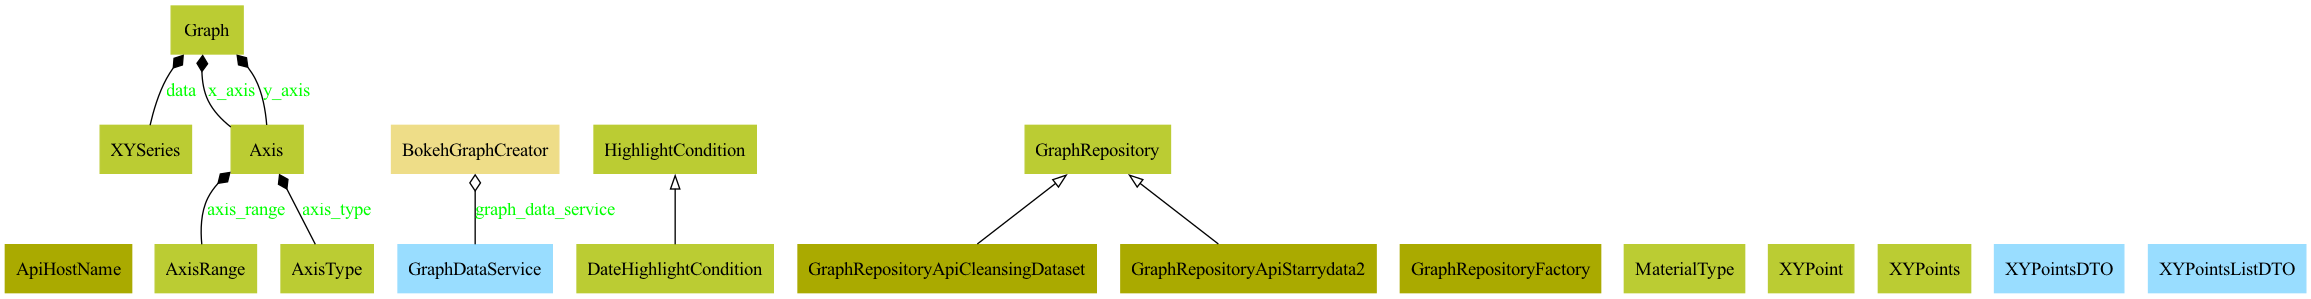
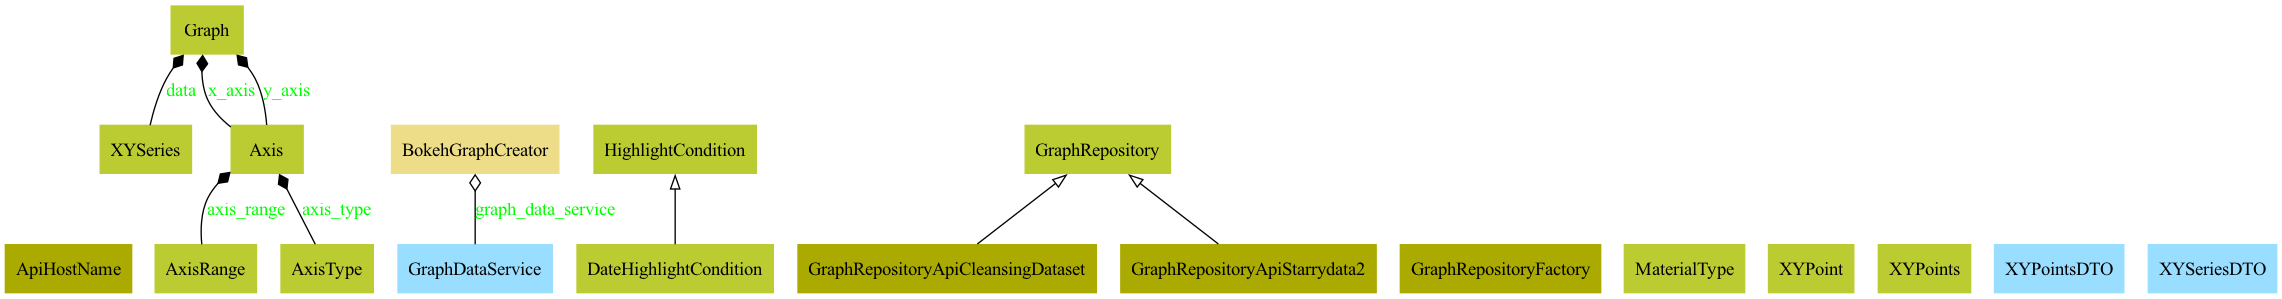
refactor: rename XYPointsList to XYSeries

diff --git a/src/presentation/bokeh_graph_creator.py b/src/presentation/bokeh_graph_creator.py
@@ -1,14 +1,14 @@
 from bokeh.plotting import figure
 from bokeh.models import HoverTool, ColumnDataSource, Range1d
 
-from application.graph_data_service import GraphDataService, XYPointsListDTO, XYPointsDTO
+from application.graph_data_service import GraphDataService, XYSeriesDTO, XYPointsDTO
 from domain.graph import Graph, Axis, AxisType, AxisRange
 
 class BokehGraphCreator():
     def __init__(self, graph_data_service: GraphDataService = GraphDataService()):
         self.graph_data_service = graph_data_service
 
-    def get_data_point_series_with_axis(self, prop_x: str, prop_y: str, unit_x: str = "", unit_y: str = "") -> XYPointsListDTO:
+    def get_data_point_series_with_axis(self, prop_x: str, prop_y: str, unit_x: str = "", unit_y: str = "") -> XYSeriesDTO:
         merged_data_dto = self.graph_data_service.get_merged_graph_data(prop_x, prop_y, unit_x, unit_y)
         return merged_data_dto
 
@@ -32,12 +32,12 @@ class BokehGraphCreator():
 
         # highlight_conditionがあれば渡す
         if highlight_condition is not None:
-            xy_points_list_dto = self.graph_data_service.get_merged_graph_data(
+            xy_series_dto = self.graph_data_service.get_merged_graph_data(
                 x_axis.property, y_axis.property, x_axis.unit, y_axis.unit, highlight_condition=highlight_condition
             )
         else:
-            xy_points_list_dto = self.get_data_point_series_with_axis(x_axis.property, y_axis.property, x_axis.unit, y_axis.unit)
-        column_data_source = self.create_bokeh_data_source(xy_points_list_dto)
+            xy_series_dto = self.get_data_point_series_with_axis(x_axis.property, y_axis.property, x_axis.unit, y_axis.unit)
+        column_data_source = self.create_bokeh_data_source(xy_series_dto)
         renderer = p.scatter(
             "x",
             "y",
@@ -51,12 +51,12 @@ class BokehGraphCreator():
         p.add_tools(hover)
         return p
 
-    def create_bokeh_data_source(self, xy_points_list_dto: XYPointsListDTO) -> ColumnDataSource:
+    def create_bokeh_data_source(self, xy_series_dto: XYSeriesDTO) -> ColumnDataSource:
         from itertools import chain
         # XYPointsDTOごとにis_highlightedを展開
         all_points = []
         color = []
-        for dto in xy_points_list_dto.data:
+        for dto in xy_series_dto.data:
             all_points.extend(dto.data)
             color.extend(["red" if dto.is_highlighted else "gray"] * len(dto.data))
         data = dict(

diff --git a/src/tests/application/test_graph_data_service_filter.py b/src/tests/application/test_graph_data_service_filter.py
@@ -1,6 +1,6 @@
 import pytest
 from src.domain.graph import XYPoint, XYPoints, XYSeries, DateHighlightCondition, HighlightCondition
-from src.application.graph_data_service import GraphDataService, XYPointsDTO, XYPointsListDTO
+from src.application.graph_data_service import GraphDataService, XYPointsDTO, XYSeriesDTO
 
 class DummyHighlightCondition(HighlightCondition):
     def is_match_points(self, points: XYPoints) -> bool:
@@ -15,7 +15,7 @@ def test_filter_and_sort_by_highlight():
     series = XYSeries([points1, points2, points3])
     service = GraphDataService()
     cond = DummyHighlightCondition()
-    result: XYPointsListDTO = service.filter_and_sort_by_highlight_dto(series, cond)
+    result: XYSeriesDTO = service.filter_and_sort_by_highlight_dto(series, cond)
     # ハイライト対象(points2)がラストに来ていること
     assert result.data[2].data == points2.data
     assert result.data[2].is_highlighted is True
@@ -29,7 +29,7 @@ def test_filter_and_sort_by_highlight_all():
     series = XYSeries([points1, points2])
     service = GraphDataService()
     cond = DummyHighlightCondition()
-    result: XYPointsListDTO = service.filter_and_sort_by_highlight_dto(series, cond)
+    result: XYSeriesDTO = service.filter_and_sort_by_highlight_dto(series, cond)
     assert [dto.data for dto in result.data] == [points1.data, points2.data]
     assert all(dto.is_highlighted for dto in result.data)
 
@@ -40,6 +40,6 @@ def test_filter_and_sort_by_highlight_none():
     series = XYSeries([points1, points2])
     service = GraphDataService()
     cond = DummyHighlightCondition()
-    result: XYPointsListDTO = service.filter_and_sort_by_highlight_dto(series, cond)
+    result: XYSeriesDTO = service.filter_and_sort_by_highlight_dto(series, cond)
     assert [dto.data for dto in result.data] == [points1.data, points2.data]
     assert all(dto.is_highlighted is False for dto in result.data)

diff --git a/src/application/graph_data_service.py b/src/application/graph_data_service.py
@@ -13,7 +13,7 @@ class XYPointsDTO:
     is_highlighted: bool = False
 
 @dataclass
-class XYPointsListDTO:
+class XYSeriesDTO:
     data: List[XYPointsDTO]
 
 class GraphDataService:
@@ -82,7 +82,7 @@ class GraphDataService:
 
         return highlight_points, highlight_lines, sizef_points, line_sizef_points, x_end, y_end, label, widths
 
-    def filter_and_sort_by_highlight_dto(self, xy_series: XYSeries, highlight_condition: HighlightCondition) -> XYPointsListDTO:
+    def filter_and_sort_by_highlight_dto(self, xy_series: XYSeries, highlight_condition: HighlightCondition) -> XYSeriesDTO:
         """
         ハイライト条件でXYPointsを2分割し、各XYPointsDTOにis_highlighted属性を付与し、ハイライト対象を末尾に並べる（非ハイライト→ハイライトの順）
         """
@@ -95,7 +95,7 @@ class GraphDataService:
                 highlighted.append(dto)
             else:
                 non_highlighted.append(dto)
-        return XYPointsListDTO(data=non_highlighted + highlighted)
+        return XYSeriesDTO(data=non_highlighted + highlighted)
 
     def get_merged_graph_data(
         self,
@@ -104,7 +104,7 @@ class GraphDataService:
         unit_x: str = "",
         unit_y: str = "",
         highlight_condition: Optional[HighlightCondition] = None,
-    ) -> XYPointsListDTO:
+    ) -> XYSeriesDTO:
         """
         repositoryを使ってbulk data（全件）と今日のデータ（date_from, date_toで絞る）を取得し、DTOで返す
         highlight_conditionが指定されていれば、ハイライト対象を先頭に並べる
@@ -132,5 +132,5 @@ class GraphDataService:
         dtos = []
         for points in bulk_data_series.data:
             dtos.append(XYPointsDTO(data=points.data, is_highlighted=False))
-        return XYPointsListDTO(data=dtos)
+        return XYSeriesDTO(data=dtos)
 

diff --git a/src/tests/presentation/test_bokeh_graph_creator_figure.py b/src/tests/presentation/test_bokeh_graph_creator_figure.py
@@ -2,7 +2,7 @@ import pytest
 from bokeh.plotting import figure
 from domain.graph import Axis, AxisType, AxisRange, XYPoint, XYPoints, DateHighlightCondition
 from presentation.bokeh_graph_creator import BokehGraphCreator
-from application.graph_data_service import GraphDataService, XYPointsDTO, XYPointsListDTO
+from application.graph_data_service import GraphDataService, XYPointsDTO, XYSeriesDTO
 from unittest.mock import MagicMock
 
 @pytest.fixture
@@ -25,7 +25,7 @@ def test_create_bokeh_figure_basic(bokeh_graph_creator, mock_graph_data_service,
     # モックデータ（DTO方式）
     points = XYPoints([XYPoint(1, 2), XYPoint(3, 4)], updated_at="2024-01-01T00:00:00Z")
     dto = XYPointsDTO(data=points.data, is_highlighted=False)
-    dto_list = XYPointsListDTO(data=[dto])
+    dto_list = XYSeriesDTO(data=[dto])
     mock_graph_data_service.get_merged_graph_data.return_value = dto_list
     fig = bokeh_graph_creator.create_bokeh_figure(x_axis, y_axis)
     assert isinstance(fig, figure)
@@ -49,7 +49,7 @@ def test_create_bokeh_figure_with_highlight(bokeh_graph_creator, mock_graph_data
     points2 = XYPoints([XYPoint(3, 4)], updated_at="2024-01-03T00:00:00Z")  # 非ハイライト
     dto1 = XYPointsDTO(data=points1.data, is_highlighted=True)
     dto2 = XYPointsDTO(data=points2.data, is_highlighted=False)
-    dto_list = XYPointsListDTO(data=[dto1, dto2])
+    dto_list = XYSeriesDTO(data=[dto1, dto2])
     mock_graph_data_service.get_merged_graph_data.return_value = dto_list
     fig = bokeh_graph_creator.create_bokeh_figure(x_axis, y_axis, highlight_condition=highlight_condition)
     assert isinstance(fig, figure)

diff --git a/src/tests/application/test_graph_data_service.py b/src/tests/application/test_graph_data_service.py
@@ -1,5 +1,5 @@
 import pytest
-from application.graph_data_service import GraphDataService, XYPointsListDTO, XYPointsDTO
+from application.graph_data_service import GraphDataService, XYSeriesDTO, XYPointsDTO
 from unittest.mock import patch, MagicMock
 from domain.graph import XYPoints, XYSeries, XYPoint
 
@@ -26,14 +26,14 @@ def test_get_merged_graph_data(mock_factory, mock_bulk_data_series, mock_today_d
     mock_today_repo.get_graph_by_property_and_unit.return_value = mock_today_data_series
     mock_factory.side_effect = [mock_bulk_repo, mock_today_repo]
     service = GraphDataService()
-    merged: XYPointsListDTO = service.get_merged_graph_data(
+    merged: XYSeriesDTO = service.get_merged_graph_data(
         prop_x="Temperature",
         prop_y="Seebeck coefficient",
         unit_x="K",
         unit_y="V/K",
     )
     # bulk + today のXYPointsDTOリストが結合されていること
-    assert isinstance(merged, XYPointsListDTO)
+    assert isinstance(merged, XYSeriesDTO)
     assert len(merged.data) == 2
     assert merged.data[0].data == mock_bulk_data_series.data[0].data
     assert merged.data[1].data == mock_today_data_series.data[0].data

diff --git a/src/tests/presentation/test_bokeh_graph_creator.py b/src/tests/presentation/test_bokeh_graph_creator.py
@@ -3,7 +3,7 @@ from presentation.bokeh_graph_creator import BokehGraphCreator
 from bokeh.plotting import figure
 from bokeh.models import ColumnDataSource, LinearAxis
 from domain.graph import Axis, AxisType, AxisRange, XYPoint, XYPoints
-from application.graph_data_service import XYPointsDTO, XYPointsListDTO
+from application.graph_data_service import XYPointsDTO, XYSeriesDTO
 from unittest.mock import Mock
 
 @pytest.fixture
@@ -18,7 +18,7 @@ def y_axis():
 def simple_dto():
     xy_points = XYPoints([XYPoint(1, 4), XYPoint(2, 5), XYPoint(3, 6)], updated_at="2024-01-01T00:00:00Z")
     dto = XYPointsDTO(data=xy_points.data, is_highlighted=False)
-    dto_list = XYPointsListDTO(data=[dto, dto, dto])  # Mocking multiple series for simplicity
+    dto_list = XYSeriesDTO(data=[dto, dto, dto])  # Mocking multiple series for simplicity
     return dto_list
 
 @pytest.fixture
